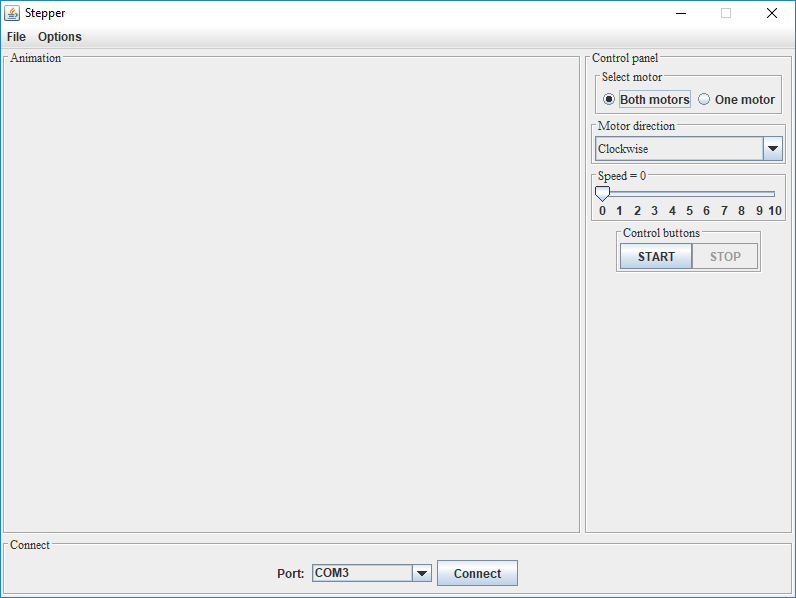
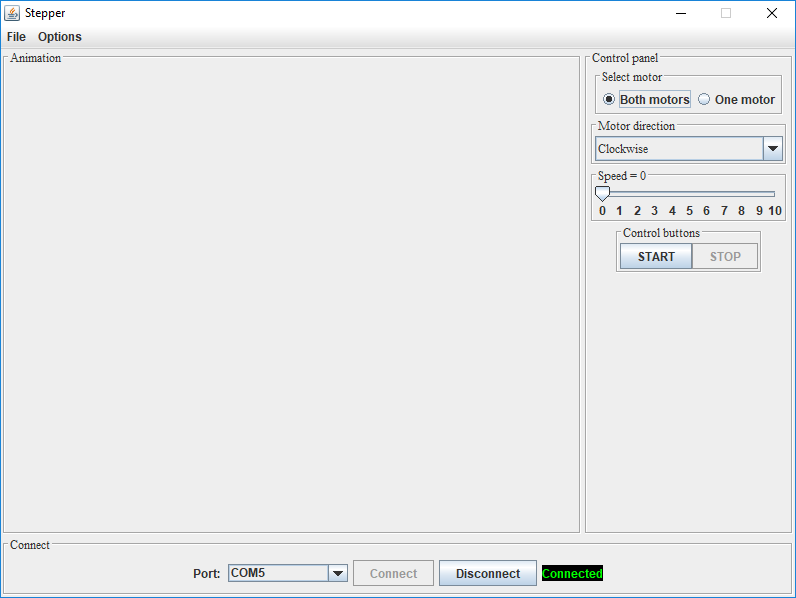
Disconnect button and status.

Changed region(s): [[0.2412, 0.9331, 0.7538, 0.9933]]

diff --git a/src/main/java/demo/ConnectionPanel.java b/src/main/java/demo/ConnectionPanel.java
@@ -13,6 +13,8 @@ public class ConnectionPanel extends JPanel {
     private JComboBox comboBox;
     public static final String[] conn = {"COM3", "COM4", "COM5"};
     private JButton connectButton;
+    private JButton disconnectButton;
+    private JLabel connectionStatus;
     private Font font = new Font("serif", Font.PLAIN, 12);
 
     public ConnectionPanel() {
@@ -37,9 +39,32 @@ public class ConnectionPanel extends JPanel {
         connectButton = new JButton("Connect");
         connectButton.addActionListener(new ActionListener() {
             public void actionPerformed(ActionEvent e) {
+                connectionStatus.setText("Connected");
+                connectionStatus.setForeground(Color.GREEN);
+                connectButton.setEnabled(false);
+                disconnectButton.setEnabled(true);
                 System.out.println(comboBox.getSelectedItem());
             }
         });
         add(connectButton);
+
+        disconnectButton = new JButton("Disconnect");
+        disconnectButton.setEnabled(false);
+        disconnectButton.addActionListener(new ActionListener() {
+            public void actionPerformed(ActionEvent e) {
+                connectionStatus.setText("Disconnected");
+                connectionStatus.setForeground(Color.RED);
+                connectButton.setEnabled(true);
+                disconnectButton.setEnabled(false);
+            }
+        });
+        add(disconnectButton);
+
+        connectionStatus = new JLabel("Not connected.");
+        connectionStatus.setOpaque(true);
+        connectionStatus.setBackground(Color.BLACK);
+        connectionStatus.setForeground(Color.RED);
+        add(connectionStatus);
+
     }
 }
